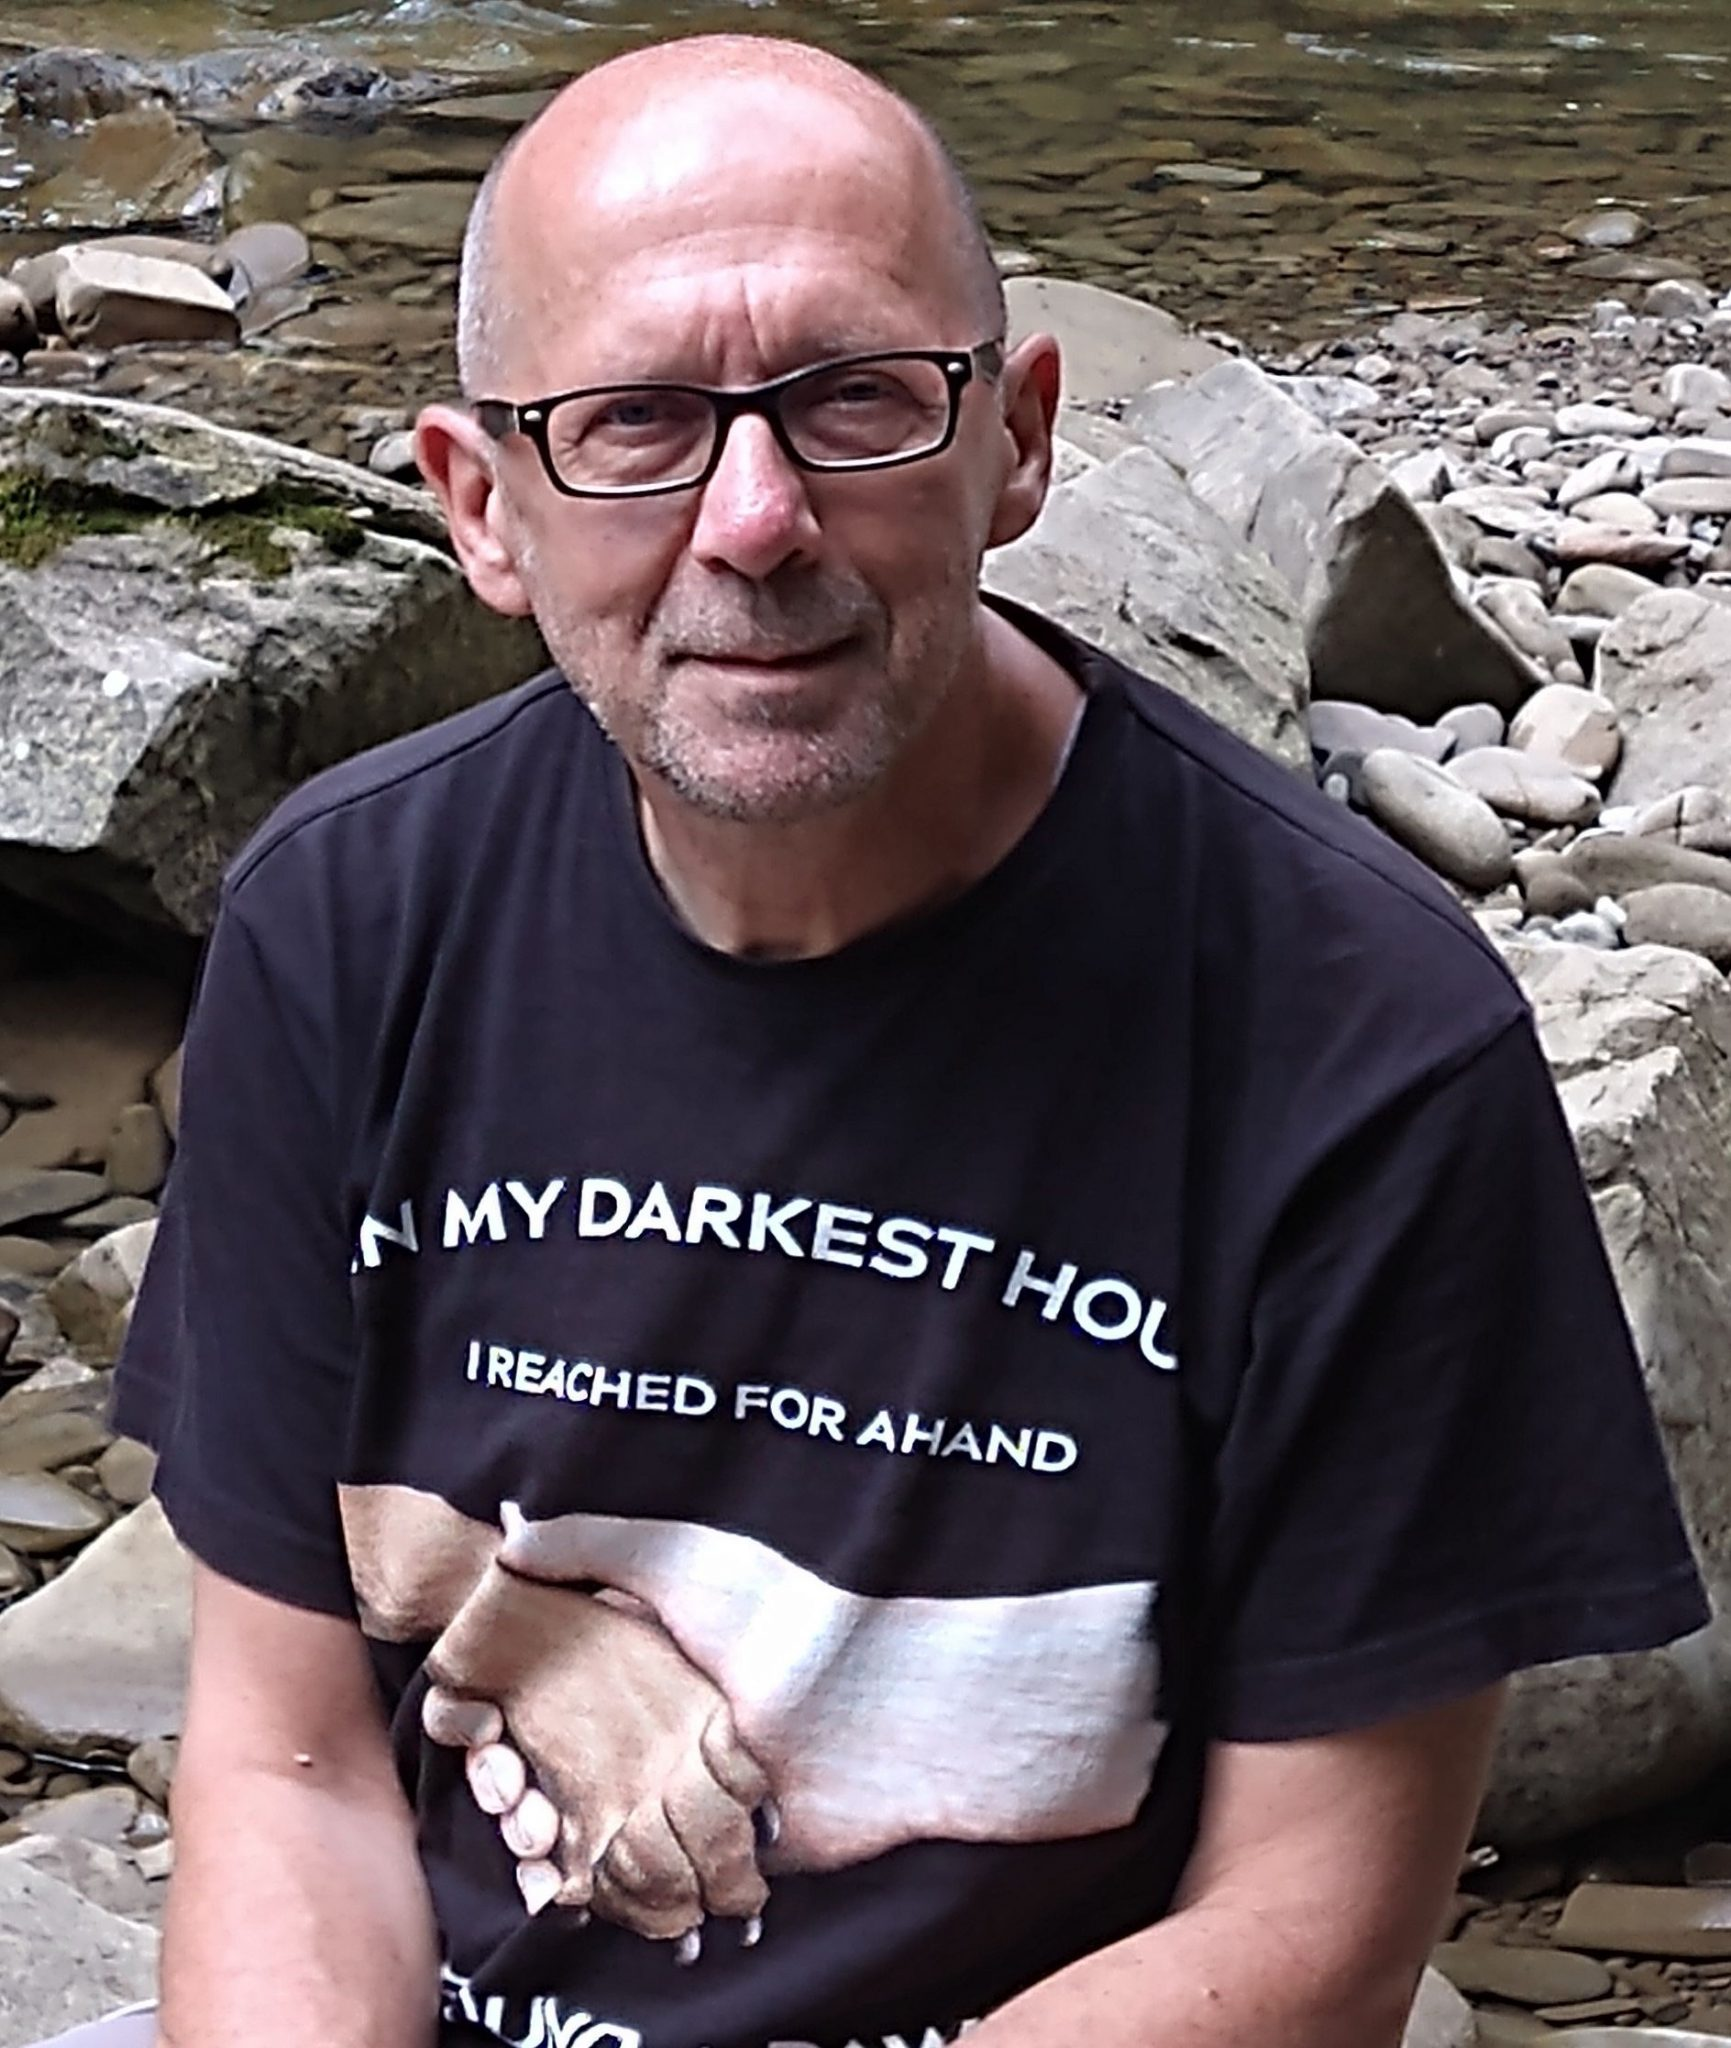
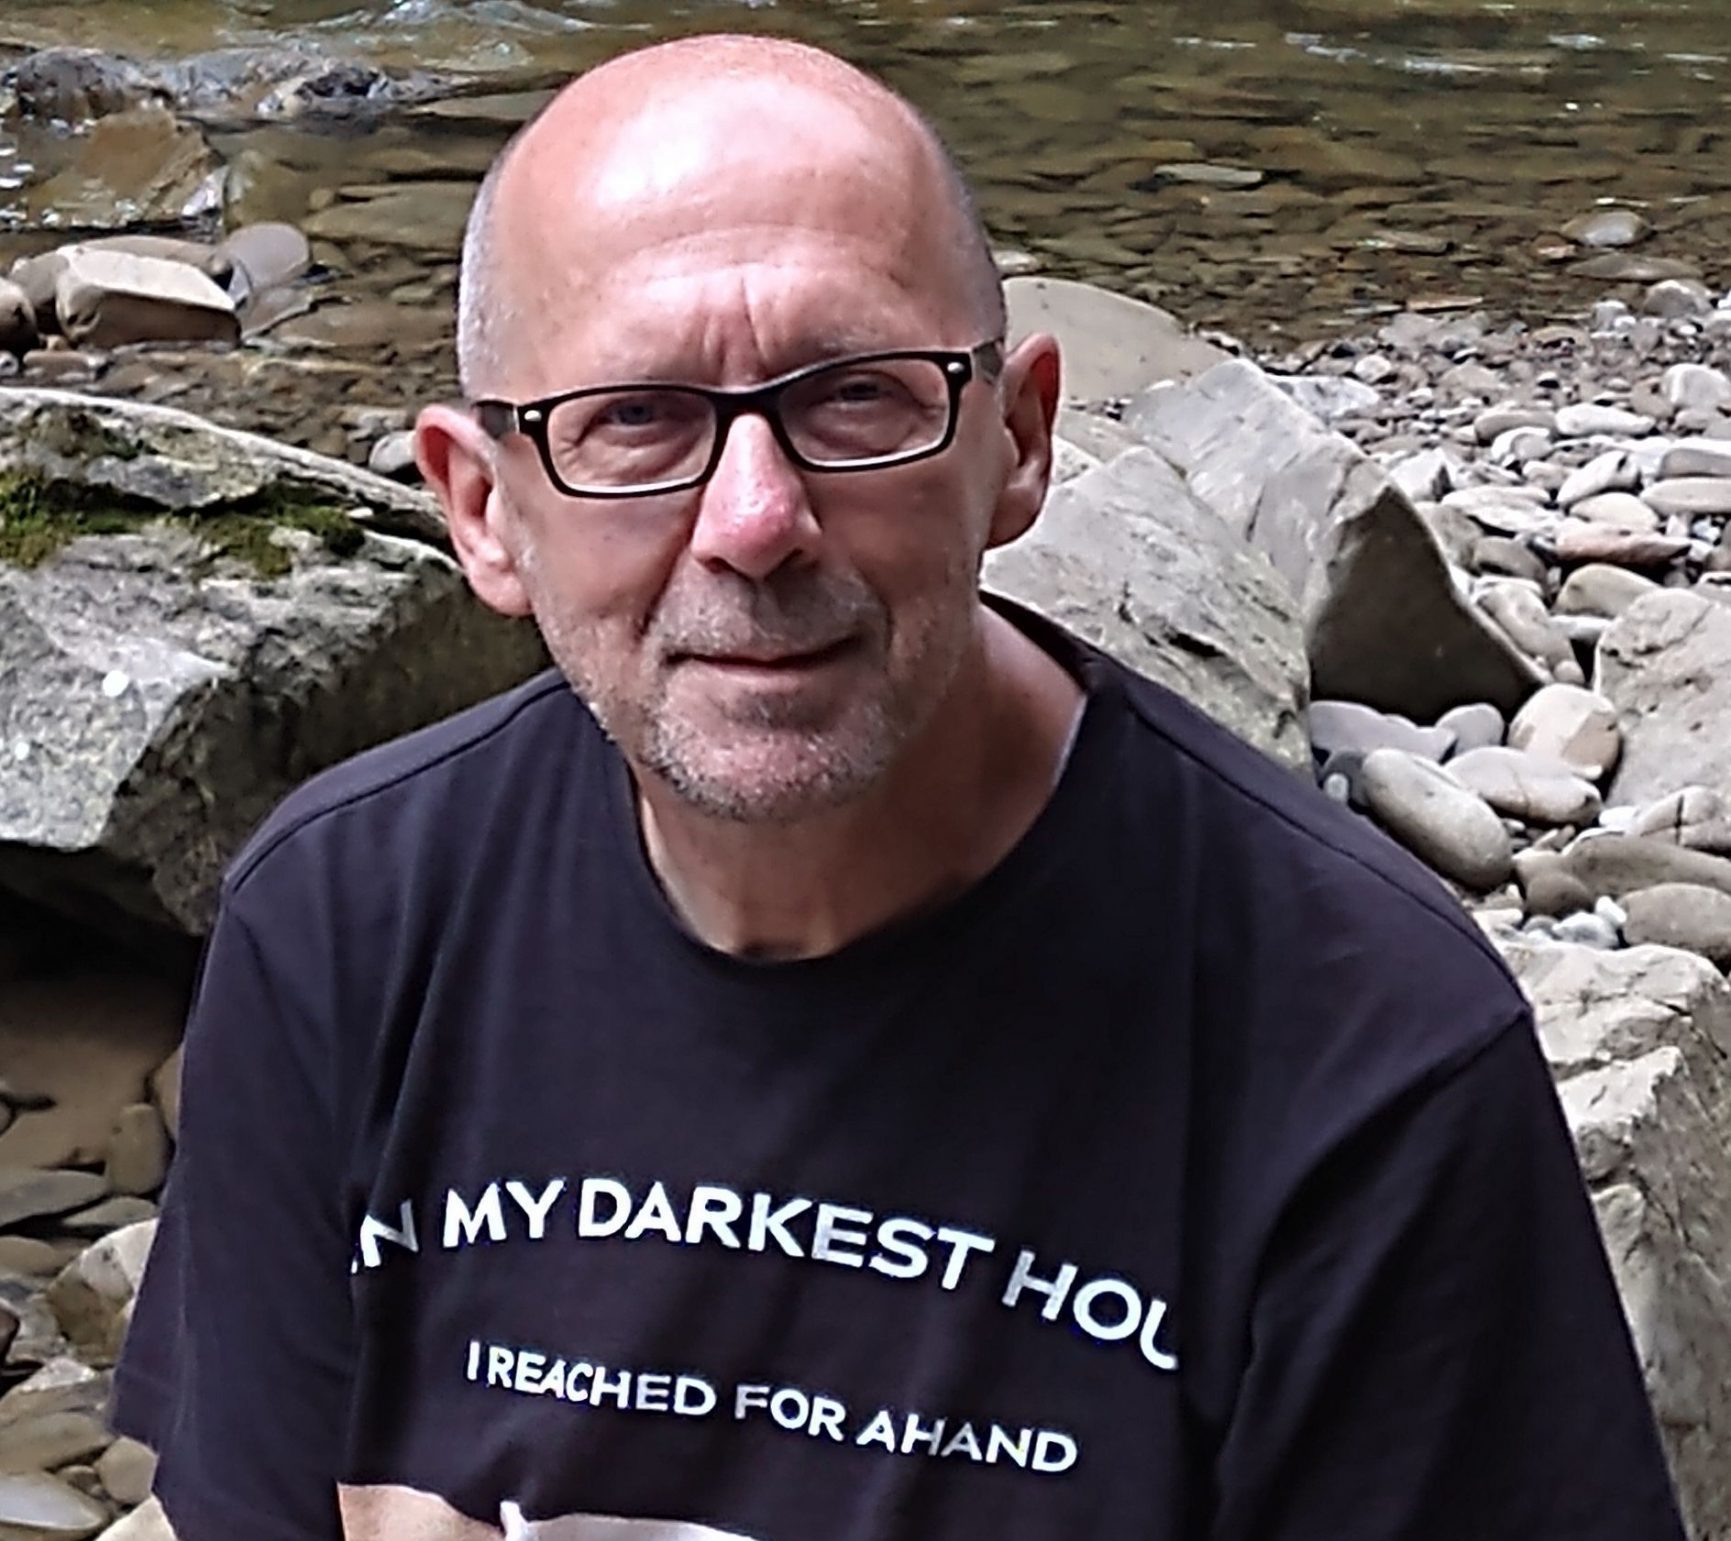
Implemented next/image component

diff --git a/src/components/PhotoCard/index.tsx b/src/components/PhotoCard/index.tsx
@@ -1,7 +1,9 @@
 import { useStyles } from './styles';
-import { Title, Image, Center, Space, Button, Collapse } from '@mantine/core';
+import { Title, Center, Space, Button, Collapse } from '@mantine/core';
 import { IconChevronRight } from '@tabler/icons';
-import { useState, ReactNode } from 'react';
+import { useState, ReactNode, useEffect, useRef } from 'react';
+import Image from 'next/image';
+import { useMediaQuery } from '@mantine/hooks';
 
 interface PhotoCardProps {
   children: any;
@@ -11,36 +13,55 @@ interface PhotoCardProps {
 }
 
 export default function PhotoCard({ children, title, imageUrl, collapsible }: PhotoCardProps) {
-  const { classes } = useStyles();
+  const { classes, theme } = useStyles();
 
   const [controlsOpened, setControlsOpened] = useState(false);
+  const [contentHeight, setContentHeight] = useState(0);
+  const contentRef = useRef<any>(null);
+
+  useEffect(() => {
+    contentRef.current != null && setContentHeight(contentRef.current.clientHeight);
+    console.log(contentRef.current.clientHeight);
+  });
+
+  const isSmallScreen = useMediaQuery(`(max-width: ${theme.breakpoints.sm}px)`);
 
   return (
     <div className={classes.card}>
       <div className={classes.wrapper}>
-        <div className={classes.image}>
-          <Image
-            alt={`Zdjęcie, na którym jest ${name}`}
-            src={imageUrl}
-            radius='md'
-            height='100%'
-          />
-        </div>
+          <div
+            className={classes.image}
+            style={{
+              height: isSmallScreen ? 'calc(94vw - 30px)' : contentHeight,
+              width: isSmallScreen ? 'calc(94vw - 30px)' : 'fit-content',
+            }}
+          >
 
-        <div className={classes.content}>
+            <Image
+              src={imageUrl}
+              alt={`Zdjęcie, na którym jest ${title}`}
+              layout='fill'
+              objectFit='cover'
+            />
+          </div>
+
+        <div
+          className={classes.content}
+          ref={contentRef}
+        >
           <Title
             order={2}
             className={classes.title}
           >
             {title}
           </Title>
-          <Space h="sm" />
+          <Space h='sm' />
 
           {children}
 
           {collapsible != undefined &&
             <>
-              <Space h="xs" />
+              <Space h='xs' />
               <Center>
                 <Button
                   onClick={() => setControlsOpened((o) => !o)}

diff --git a/src/components/PhotoCard/styles.ts b/src/components/PhotoCard/styles.ts
@@ -38,24 +38,27 @@ export const useStyles = createStyles((theme, _params, getRef) => ({
     },
   },
 
-  image: {
-    flex: '1 1 0',
-
-    [theme.fn.largerThan('sm')]: {            
-      marginRight: '20px',
-    },
-
-    [theme.fn.smallerThan('sm')]: {            
-      marginBottom: '20px',
+  content: {
+    [theme.fn.largerThan('sm')]: {
+      flex: '1.4 1 0',
+      textAlign: 'justify',
+      textJustify: 'inter-word',
     },
   },
 
-  content: {
-    flex: '1.4 1 0',
-    
-    [theme.fn.largerThan('sm')]: {            
-      textAlign: 'justify',
-      textJustify: 'inter-word',
+  image: {
+    position: 'relative',
+    overflow: 'hidden',
+    borderRadius: theme.radius.md,
+    minHeight: '300px',
+
+    [theme.fn.largerThan('sm')]: {
+      flex: '1 1 0',
+      marginRight: '20px',
+    },
+
+    [theme.fn.smallerThan('sm')]: {
+      marginBottom: '20px',
     },
   },
 }));
